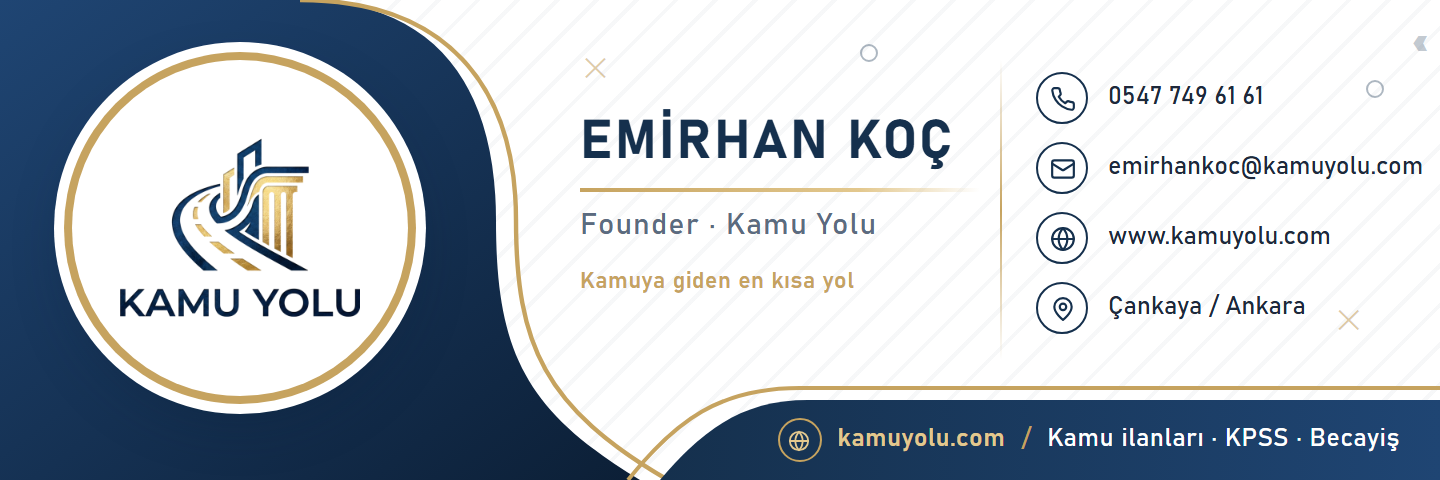
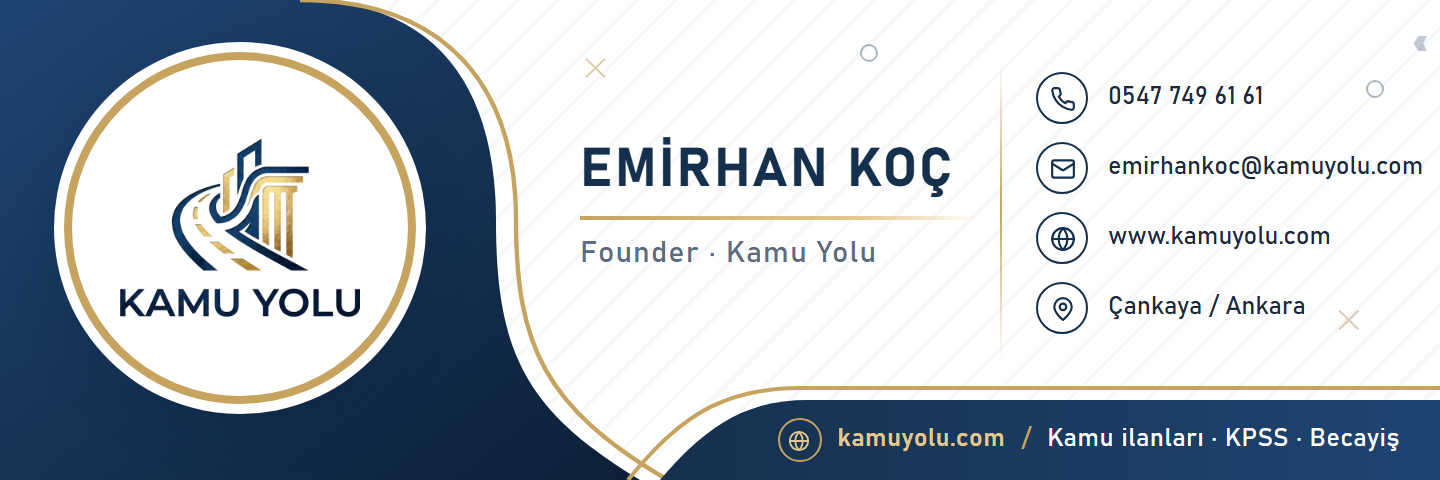
E-posta imzası: slogan kaldırıldı

Changed region(s): [[0.4062, 0.4375, 0.6562, 0.625], [0.4062, 0.2188, 0.6562, 0.4062]]

diff --git a/docs/eposta-imzasi.html b/docs/eposta-imzasi.html
@@ -18,7 +18,7 @@
 <table cellpadding="0" cellspacing="0" border="0" style="border-collapse:collapse;font-family:Arial,Helvetica,sans-serif">
   <tr>
     <td style="padding:0">
-      <a href="https://www.kamuyolu.com" style="text-decoration:none"><img src="https://www.kamuyolu.com/brand/eposta-imza-1.png?v=3" width="600" height="200" alt="Emirhan Koç · Founder, Kamu Yolu · 0547 749 61 61 · emirhankoc@kamuyolu.com · kamuyolu.com" style="display:block;border:0;width:600px;height:200px"></a>
+      <a href="https://www.kamuyolu.com" style="text-decoration:none"><img src="https://www.kamuyolu.com/brand/eposta-imza-1.png?v=4" width="600" height="200" alt="Emirhan Koç · Founder, Kamu Yolu · 0547 749 61 61 · emirhankoc@kamuyolu.com · kamuyolu.com" style="display:block;border:0;width:600px;height:200px"></a>
     </td>
   </tr>
   <tr>
@@ -35,7 +35,7 @@
 <table cellpadding="0" cellspacing="0" border="0" style="border-collapse:collapse;font-family:Arial,Helvetica,sans-serif">
   <tr>
     <td style="padding:0">
-      <a href="https://www.kamuyolu.com" style="text-decoration:none"><img src="https://www.kamuyolu.com/brand/eposta-imza-2.png?v=3" width="600" height="200" alt="Emirhan Koç · Founder, Kamu Yolu · 0547 749 61 61 · emirhankoc@kamuyolu.com · kamuyolu.com" style="display:block;border:0;width:600px;height:200px"></a>
+      <a href="https://www.kamuyolu.com" style="text-decoration:none"><img src="https://www.kamuyolu.com/brand/eposta-imza-2.png?v=4" width="600" height="200" alt="Emirhan Koç · Founder, Kamu Yolu · 0547 749 61 61 · emirhankoc@kamuyolu.com · kamuyolu.com" style="display:block;border:0;width:600px;height:200px"></a>
     </td>
   </tr>
   <tr>

diff --git a/docs/eposta-imza/tasarim.html b/docs/eposta-imza/tasarim.html
@@ -67,11 +67,10 @@
   </svg>
   <div class="daire" style="left:284px;top:28px;width:152px;height:152px;z-index:2"><img src="logo.png" alt=""></div>
 
-  <div style="position:absolute;left:30px;top:52px;width:180px">
+  <div style="position:absolute;left:30px;top:64px;width:180px">
     <div class="isim">EMİRHAN KOÇ</div>
     <div class="cizgi"></div>
     <div class="unvan">Founder · Kamu Yolu</div>
-    <div class="slogan">Kamuya giden en kısa yol</div>
   </div>
 
   <div class="iletisim" style="left:506px;top:34px">
@@ -111,11 +110,10 @@
   </svg>
   <div class="daire" style="left:36px;top:30px;width:168px;height:168px"><img src="logo.png" alt=""></div>
 
-  <div style="position:absolute;left:290px;top:58px;width:200px">
+  <div style="position:absolute;left:290px;top:72px;width:200px">
     <div class="isim" style="font-size:27px">EMİRHAN KOÇ</div>
     <div class="cizgi"></div>
     <div class="unvan">Founder · Kamu Yolu</div>
-    <div class="slogan">Kamuya giden en kısa yol</div>
   </div>
 
   <div style="position:absolute;left:500px;top:30px;width:1px;height:150px;background:linear-gradient(transparent,#c6a35f,transparent)"></div>
